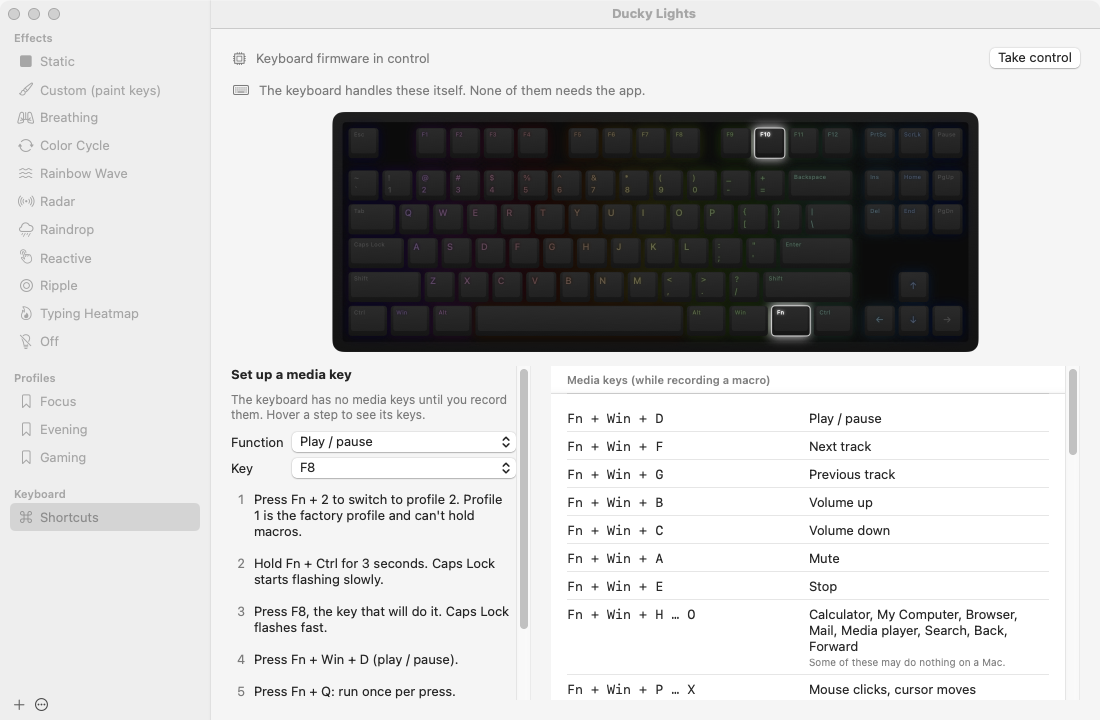
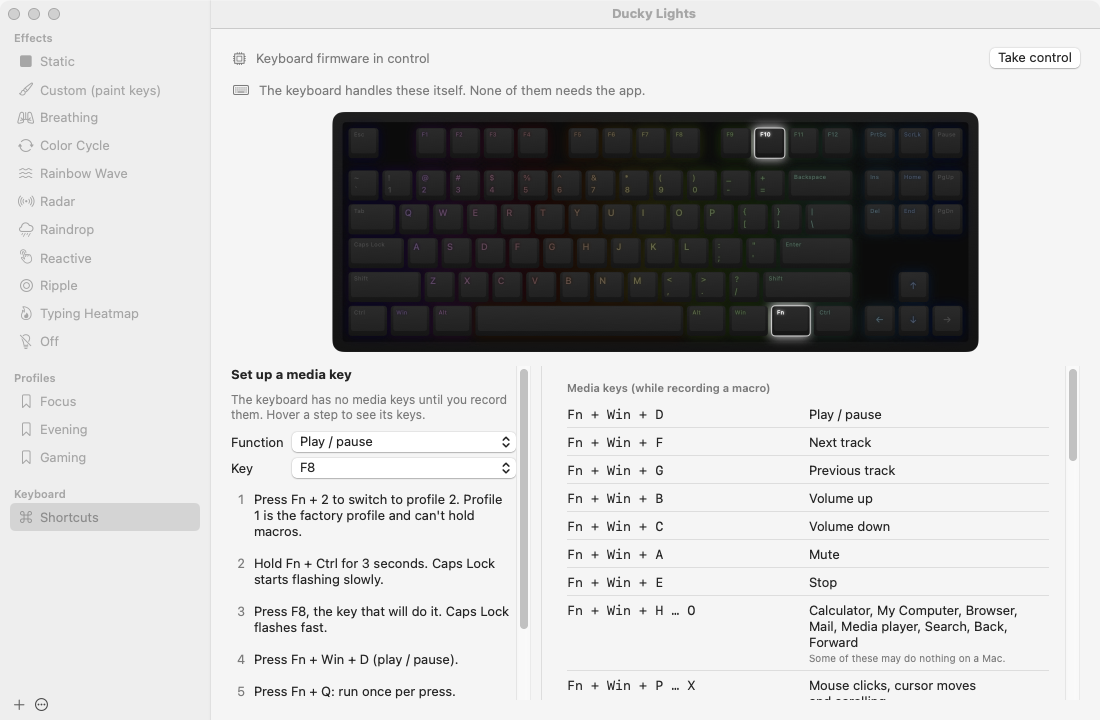
Shortcuts page: drop the list's white background, divider on the left
Group titles are plain rows now; pinned section headers drew their own
opaque strip.

Changed region(s): [[0.7109, 0.55, 0.9273, 0.9778], [0.4945, 0.5194, 0.7109, 0.8556], [0.5255, 0.9472, 0.6182, 0.9778]]

diff --git a/Sources/DuckyLights/ShortcutsView.swift b/Sources/DuckyLights/ShortcutsView.swift
@@ -22,6 +22,10 @@ struct ShortcutsPage: View {
                 MediaSetupGuide(function: $function, trigger: $trigger, hovered: $hovered)
                     .frame(width: 300)
                 ShortcutList(selection: $model.shortcutSelection, hovered: $hovered)
+                    // No white box: the list sits on the window background, set off from the
+                    // guide by a divider (an overlay, not a bare Divider in the HStack — see CLAUDE.md).
+                    .scrollContentBackground(.hidden)
+                    .overlay(alignment: .leading) { Divider().offset(x: -10) }
             }
             .frame(maxHeight: .infinity, alignment: .top)
         }
@@ -125,14 +129,18 @@ private struct ShortcutList: View {
 
     var body: some View {
         List(selection: $selection) {
+            // Group titles are plain (untagged, so unselectable) rows rather than Section headers:
+            // pinned section headers get their own opaque background strip.
             ForEach(FirmwareShortcut.Group.allCases) { group in
-                Section(group.rawValue) {
-                    ForEach(FirmwareShortcuts.all.filter { $0.group == group }) { s in
-                        row(s).tag(s.id)
-                            .onHover { inside in
-                                if inside { hovered = s.id } else if hovered == s.id { hovered = nil }
-                            }
-                    }
+                Text(group.rawValue)
+                    .font(.subheadline.weight(.semibold)).foregroundStyle(.secondary)
+                    .padding(.top, group == FirmwareShortcut.Group.allCases.first ? 0 : 10)
+                    .listRowSeparator(.hidden)
+                ForEach(FirmwareShortcuts.all.filter { $0.group == group }) { s in
+                    row(s).tag(s.id)
+                        .onHover { inside in
+                            if inside { hovered = s.id } else if hovered == s.id { hovered = nil }
+                        }
                 }
             }
         }
